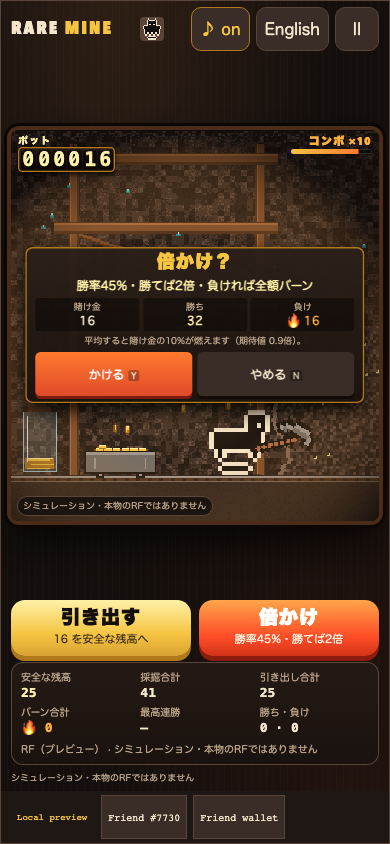
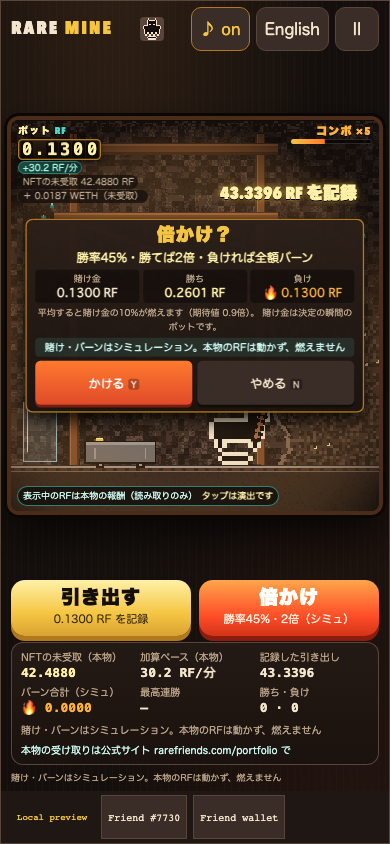
Rare Mine: mine the NFT's real accrued RF, bet it in simulation

diff --git a/submissions/rare-mine/README.md b/submissions/rare-mine/README.md
@@ -1,106 +1,101 @@
 # Rare Mine / レアマイン
 
-**Mine coins you can hear. Then withdraw them, or bet the pot: 45 % to double it, or it all burns.**
+**Watch your NFT's real RF rewards pile up as mining, hear every coin, then withdraw or bet the pot: 45 % to double it, or it all burns.**
 
-An original idle-and-tap mining game. Your verified Rare Friends NFT swings a pickaxe in a lantern-lit mine shaft. Every strike throws sparks and pops coins that arc into a cart with layered, pitch-varied clinks that get richer as the pile grows. When the pot looks good, choose **Withdraw** (safe forever) or **Bet** the whole pot on a 45 % chance to double it. Lose, and the stake is **burned**.
+Rare Friends NFTs earn RF over time. Rare Mine turns that accrual into a mine you can watch and hear:
+- **Your coins:** your verified Friend swings a pickaxe, and coins arc into a cart at the pace your NFT **actually** earns.
+- **The counter:** the pot shows the real unclaimed RF, read live and read-only from the Rare Friends activation manager, and ticks up between reads.
+- **The choice:** when the pot looks good, choose **Withdraw** or **Bet** the whole pot on a 45 % chance to double it. Lose, and the stake is **burned**.
 
 - **Builder/contact:** [@horusuzu](https://github.com/horusuzu), Genesis #597 holder. Contact through this PR or [source issues](https://github.com/horusuzu/rare-friends-lost-and-found/issues).
 - **Category:** Token Activity.
 - **Play:** [Rare Mine](https://horusuzu.github.io/rare-friends-lost-and-found/mine/)
-- **Source:** [Game and run instructions](https://github.com/horusuzu/rare-friends-lost-and-found/tree/c8585fa98f386a1a0bae313fdfe3ef5d12e2e9bf/games/rare-mine). The repository also contains the holder's other entries; this one is a separate game and URL.
-- **Stack:** FriendSDK v0.1.2 (host, eligibility, canonical sprite reader, `saveLocal`, trusted score-share bridge), React, TypeScript, a deterministic engine and a pixel canvas. Built with Claude Code.
+- **Source:** [Game and run instructions](https://github.com/horusuzu/rare-friends-lost-and-found/tree/e395ca01d2943e73e2f3b3d6ce23a2f524bcb0a6/games/rare-mine). The repository also contains the holder's other entries; this one is a separate game and URL.
+- **Stack:** FriendSDK v0.1.2, React, TypeScript, a deterministic engine and a pixel canvas. Built with Claude Code. SDK parts used:
+  - the host and its eligibility check;
+  - the canonical sprite reader;
+  - the read-only `readRewards`;
+  - `saveLocal`;
+  - the trusted score-share bridge.
 
-![Mining with a combo, phone](images/mining.png)
+![Live public page with Genesis #597: 42,603 RF unclaimed, rising at +16.7 RF/min](images/real-genesis.png)
 
-## Mining
+## Real rewards, visualised
 
-| Rule | Value |
-| --- | --- |
-| Automatic strike | every 1.0 s |
-| Tap / Space / Enter | an extra strike; combo +1 per tap (max 12) speeds auto-mining up to 0.4 s |
-| Coins per strike | 1–3 |
-| Gold vein | 3 % of strikes, +12–30 |
-| Gem | 0.8 % of strikes, +60–120, with a flash |
-| Rock face | breaks every 8 strikes for +5 |
+- **Read:** the trusted host's read-only `client.readRewards()` returns the selected NFT's claimable RF and WETH (`earned()` on the activation manager, read at a fresh block after re-verifying ownership). The game polls it about every 20 s, never overlapping, pausing while hidden or paused, and backing off on errors.
+- **Rate:** the accrual rate comes from successive reads. Between reads the odometer interpolates (`last + rate × elapsed`, never more than 30 s ahead) and eases to each new true value. A rate badge shows it, e.g. **+16.7 RF/分**.
+- **Coins:** each coin is worth the smallest 1-2-5 step that keeps coins at 6 per second or fewer. That gives 2.4–6 coins a second at any real rate:
 
-Expected yield is 3.975 coins per strike. Coins per minute:
+  | NFT | Accrual | Coin value | Coins per second |
+  |---|---|---|---|
+  | Genesis #597 | 16.4 RF/min | 0.05 RF | about 5.5 |
+  | Friend #7730 | 0.2 RF/min | 0.001 RF | about 3.3 |
 
-| Play style | Coins per minute |
-| --- | --- |
-| Idle | about 240 |
-| Tapping 3 times a second | about 1 300 |
-| Tapping 6 times a second | about 2 000 |
+  The cart and jar fill with the pot.
+- **Taps are cosmetic:** tapping the rock gives strikes, combos and clinks for fun but cannot create RF (「タップは演出です」).
+- **Claims:** if the real amount drops because the holder claimed on the official site, the pot resets cleanly.
+- **Practice mode:** used when the NFT is not activated or earns nothing, or when reads keep failing. The notice reads 「このFriendには報酬がたまっていません。アクティベートは公式サイトで。」. Simulated idle/tap mining is offered as 練習モード, with a button to re-read the real rewards.
 
-The first choice arrives after about 40 s.
+Measured on mainnet today:
 
-## Withdraw or bet
+| NFT | Unclaimed RF | Accrual |
+|---|---|---|
+| Genesis #597 | ≈ 42 600 | ≈ 16.7 RF/min |
+| Friend #7730 | ≈ 38 | ≈ 0.2 RF/min |
 
-Both buttons are the same size and always on screen; Withdraw is never hidden.
+![Real-reward mode with the fixture Friend, phone](images/mining.png)
 
-- **Withdraw (引き出す):** the pot moves to the safe balance with a coin rain and a cash-register "cha-ching".
-- **Bet (倍かけ):**
-  - **Before anything is staked**, the screen shows 「勝率45%・勝てば2倍・負ければ全額バーン」 with the exact stake, win and burn amounts.
-  - **Win:** the pot doubles and stays at risk. Bet again for a streak (×2, ×4, ×8 …, capped at 20 wins) or withdraw.
-  - **Lose:** the whole stake burns ("🔥 N burned") and the burned total grows.
-  - **When the result is fixed:** it is drawn when you confirm and saved already settled. The 1.6 s drum-roll only delays the reveal, so reloading cannot undo a burn.
+## Withdraw or bet the real accrual
 
-![Odds shown before the stake, phone](images/bet.png)
+- **Pot:** `pot = (real unclaimed RF − baseline) + streak bonus`. The first-ever baseline is 0, so the first pot is everything the NFT has accrued.
+- **Withdraw (記録して引き出す):** records the pot and moves the baseline to the current real amount. Real claiming stays on the official site (rarefriends.com/portfolio, shown as text).
+- **Bet (倍かけ):** the odds, stake, win and burn amounts are shown **before** staking: 「勝率45%・勝てば2倍・負ければ全額バーン」.
+  - **Win:** the stake becomes a streak bonus, so the pot doubles and keeps growing with real accrual. Bet again (×2, ×4, ×8 …, capped at 20 wins) or withdraw.
+  - **Lose:** the whole pot burns and the baseline moves to the current real amount.
+  - The result is fixed at confirmation and saved settled, so reloading cannot undo it.
+- **Odds:** P(win) = 0.45 with a ×2 payout, so **EV = 0.9 × stake**: on average **10 % of every bet burns**, and a lost streak burns the whole pot. Measured win rate: 44.9 % over 100 000 bets.
+- **Stats:** unclaimed real RF, rate, withdrawn, **burned**, best streak and wins/losses.
+- **Share on X:** posts the burned total and best streak through the host's trusted share bridge.
 
-### Odds and burn
-
-- P(win) = 0.45 and the payout is ×2, so **EV = 0.9 × stake**: on average **10 % of every bet burns**.
-- Measured over 100 000 bets: 44.9 % wins.
-- A ×16 streak (4 wins in a row) happens 4.1 % of the time.
-- The stats panel shows the safe balance, total mined, withdrawn, **burned**, best streak and bets won/lost. Two ledger identities are checked on every save load:
-  - `mined + winnings = withdrawn + burned + pot`
-  - `staked = winnings + burned`
-
-**Share on X** posts the burned total and best streak (e.g. 「🔥1200 RF（プレビュー）をバーン！ 最高×16（4連勝）」) through the SDK host's trusted share bridge. The host fixes the title and URL.
+![Odds before staking, phone](images/bet.png)
 
 ![A lost bet burning the pot, desktop](images/burn.png)
 
-## Economy: simulated, and what live play needs
+## What is real and what is simulated
 
-**No real RF moves in this preview.** Mined coins are "RF (preview)", a simulated currency with no value that cannot be redeemed. It is labelled 「シミュレーション・本物のRFではありません」 on the title, the mine, the stats and the footer. The bet is resolved by a seeded local RNG; the game never calls the SDK's buy, play, settle or redeem, and the `game.json` chance-game block is an unused placeholder.
+- **Real:** the unclaimed RF/WETH amounts and their accrual rate. Read-only; no transaction or signature.
+- **Simulated:** the bet, the win and the burn. Every screen says 「賭け・バーンはシミュレーション。本物のRFは動かず、燃えません」. Real rewards are never moved or burned.
+- **Not used:** the game never calls the SDK's buy, play, settle or redeem, and opens no links or popups. The `game.json` chance-game block is an unused placeholder.
 
-The SDK v0.1.2 chance-game API cannot express this bet. A live version needs a Rare Friends contract with:
-- a **variable stake** (the whole pot) paid in RF from the canonical NFT wallet with an exact approval;
-- a verifiable 45 % oracle roll, settled on-chain before any reveal;
-- a **2× payout from a reserved bankroll**, so every open bet's maximum prize is backed;
-- a **burn of lost stakes**;
-- mining that either stays off-chain and unbacked, or is replaced by an RF deposit, since free mined coins cannot become real RF.
+To bet the real accrual live, Rare Friends would need:
+- the rewards claimed to the canonical NFT wallet;
+- a bet contract with a **variable stake** in RF from that wallet (exact approval);
+- a verifiable **45 % oracle roll** settled before any reveal;
+- a **2× payout from a reserved bankroll**;
+- a **burn of lost stakes**.
 
-With those, each bet burns 10 % of the stake on average, and every lost streak burns the whole pot.
+With that, each bet burns 10 % of the stake on average and every lost streak burns the whole pot. That is the RF sink this entry proposes for Token Activity.
 
-## Sound
+![Practice mode for an NFT that has not been activated, phone](images/practice.png)
 
-- **Synthesised:** WebAudio only, no audio files.
-- **Coin clinks:** inharmonic metal partials with a soft attack and random pitch and pan, richer as the pile grows.
-- **Other cues:** a pick "tock", rock crumble, vein sparkle, gem chime, the withdraw "cha-ching", a drum roll for a bet, a win fanfare, and a burn whoosh and crackle.
-- **Comfort:** cues are rate-limited, capped and compressed so long sessions stay pleasant.
-- **♪ on/off** (`aria-pressed`, or **M**) is saved.
+## Sound and controls
 
-## Controls
-
-| Action | Touch | Keyboard |
-| --- | --- | --- |
-| Extra strike | tap the mine | Space, Enter |
-| Withdraw / open the bet | 引き出す / 倍かけ | W / B |
-| Confirm / cancel the bet | かける / やめる | Y / N, Esc |
-| Sound on/off, pause | ♪, Ⅱ | M, P |
-
-Japanese is the default, with an English toggle. Other support:
-- reduced motion: fewer coins; no sparks, shake or flash; a 0.3 s reveal;
-- controls of at least 44 px;
-- results announced with `role="status"`.
-
-![Title, phone](images/title.png)
+- **Sound:** WebAudio synthesis only.
+  - Layered, pitch-varied coin clinks that get richer as the pile grows.
+  - A pick "tock", a withdraw "cha-ching", a drum roll for the bet, a win fanfare, and a burn whoosh and crackle.
+  - **♪ on/off** (or M) is saved.
+- **Controls:**
+  - tap or Space for strikes;
+  - W withdraws, B opens the bet;
+  - Y/N confirm or cancel;
+  - P pauses.
+- **Language and access:** Japanese by default with an English toggle. Reduced motion, controls of at least 44 px, and results announced with `role="status"`.
 
 ## Try it
 
 1. Open the preview on Robinhood mainnet, **chain 4663**, in a browser with an injected wallet or a mobile wallet's in-app browser.
 2. Choose an owned hardwired **Generations NFT (generation 1+)** or the configured **Genesis #597**. The trusted host checks current ownership.
-3. No RF, activation or signature is needed. If the public RPC stalls while Friends load, the host stops after 20 seconds and offers a retry.
+3. An activated NFT shows its real unclaimed RF; one that is not activated opens practice mode. No RF, activation or signature is needed to play.
 
 ## Run locally
 
@@ -114,23 +109,30 @@ node scripts/dev-game.mjs dev games/rare-mine
 
 ## Checks and limitations
 
-Validated source revision: [`c8585fa`](https://github.com/horusuzu/rare-friends-lost-and-found/tree/c8585fa98f386a1a0bae313fdfe3ef5d12e2e9bf); the repository's GitHub Actions checks pass on it.
+Validated source revision: [`e395ca0`](https://github.com/horusuzu/rare-friends-lost-and-found/tree/e395ca01d2943e73e2f3b3d6ce23a2f524bcb0a6).
 
-- **Engine tests:** 31 pass. They cover:
-  - the win rate converging to 45 % across seeds, EV 0.9×, the ×2 payout and burn, streak doubling and the cap;
-  - withdraw, the ledger identities and mining events;
-  - save round-trip, tamper rejection and the saved sound setting.
-- **Browser checks** pass at 320×568, 390×844, 844×390, 960×640 and 1100×900:
-  - the flow: mining, tap combo, withdraw, odds dialog, bets until both a win and a loss happen (each result predicted from the seed with the engine and matched against the UI), streak, burn stats;
-  - the ♪ toggle, pause, language, reload persistence and overflow.
-- **Genesis #597:** selection and play pass at 390 and 1100 px.
-- **Repository:** tests (148 pass, 0 fail, 2 skipped), typecheck and SDK game validation pass. The new share row has its own test.
+- **Engine tests:** 56 pass. They cover:
+  - rate estimation, interpolation clamp and easing, claim/reset;
+  - the baseline/pot/streak math and the ledger identities;
+  - the mode decision, 45 % convergence, EV and burn;
+  - saves (v1 → v2 migration, tamper rejection, the sound setting).
+- **Browser checks** pass at 320×568, 390×844, 844×390, 960×640 and 1100×900 for both real mode and practice mode, over a growing `readRewards` fixture. Real mode checks:
+  - the rate badge and the odometer rising between reads;
+  - withdraw and a lost bet moving the baseline, and the pot identity;
+  - the labels, and no links;
+  - ♪ and M;
+  - reload persistence;
+  - practice mode for a Friend that is not activated, and switching back to real after re-reading.
+- **Genesis #597:** passes at 390 and 1100 px.
+- **Repository:** tests (148 pass, 0 fail, 2 skipped), typecheck and SDK game validation pass.
+- **Live check:** the public page, driven headlessly with the holder's own address (read-only; no signature), showed Genesis #597's real unclaimed RF rising from 42 596 to 42 603 RF over 26 s at +16.7 RF/min.
 
 Known limits:
-- The preview's bet stream is seeded, so someone reading the page with developer tools can foresee the next bet. That only matters in a simulation; live randomness must come from the on-chain oracle.
-- Saves are local to the browser and NFT session.
-- The synthesised sound has not been checked by ear on physical devices.
-- Real-wallet play is not claimed.
+- Any drop in the real amount is treated as a claim on the official site.
+- An NFT whose reads do not grow is treated as not accruing.
+- The preview's bet stream is seeded, so it can be foreseen with developer tools. Live randomness must be on-chain.
+- Saves are local to the browser.
+- The sound has not been checked by ear on physical devices.
 
 The Genesis preview is a fork addition for review, not an upstream SDK capability or Rare Friends production approval. This entry is separate from Our Little Island (#20), Rare Invaders (#40), Rare Drop (#48), Rare Rush (#52), Rare Cards (#55), Rare Quest (#56) and Rare Delve (#60).
 
